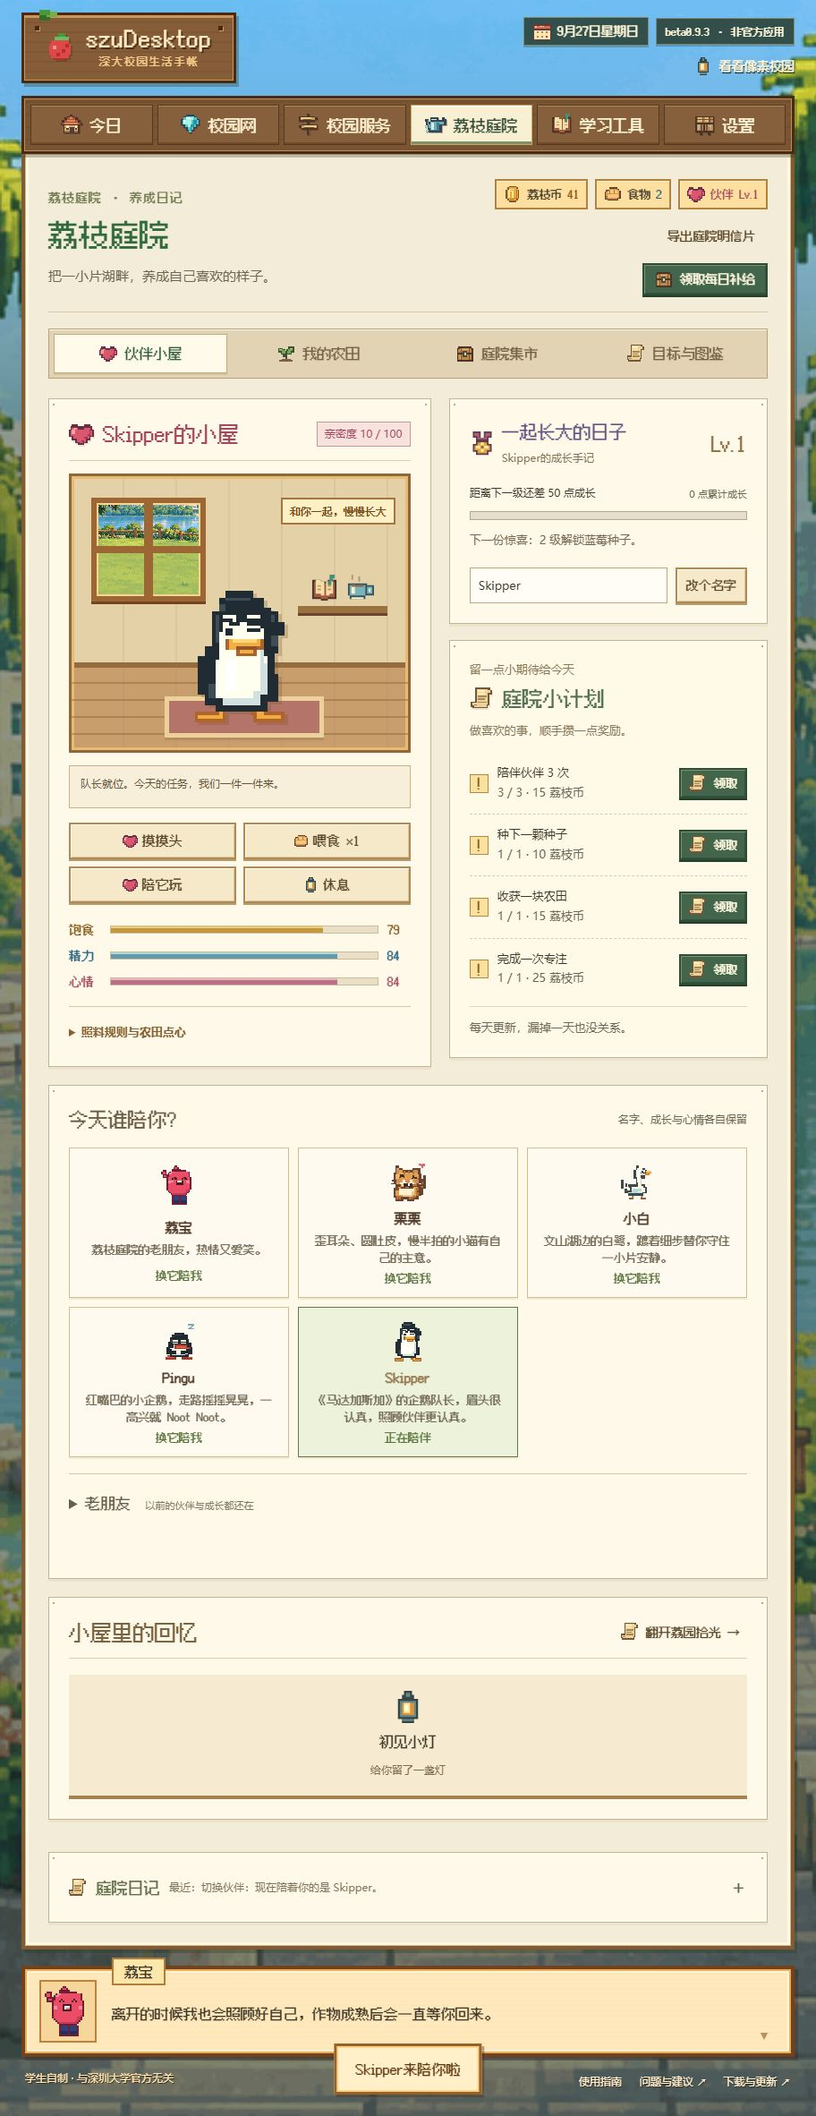
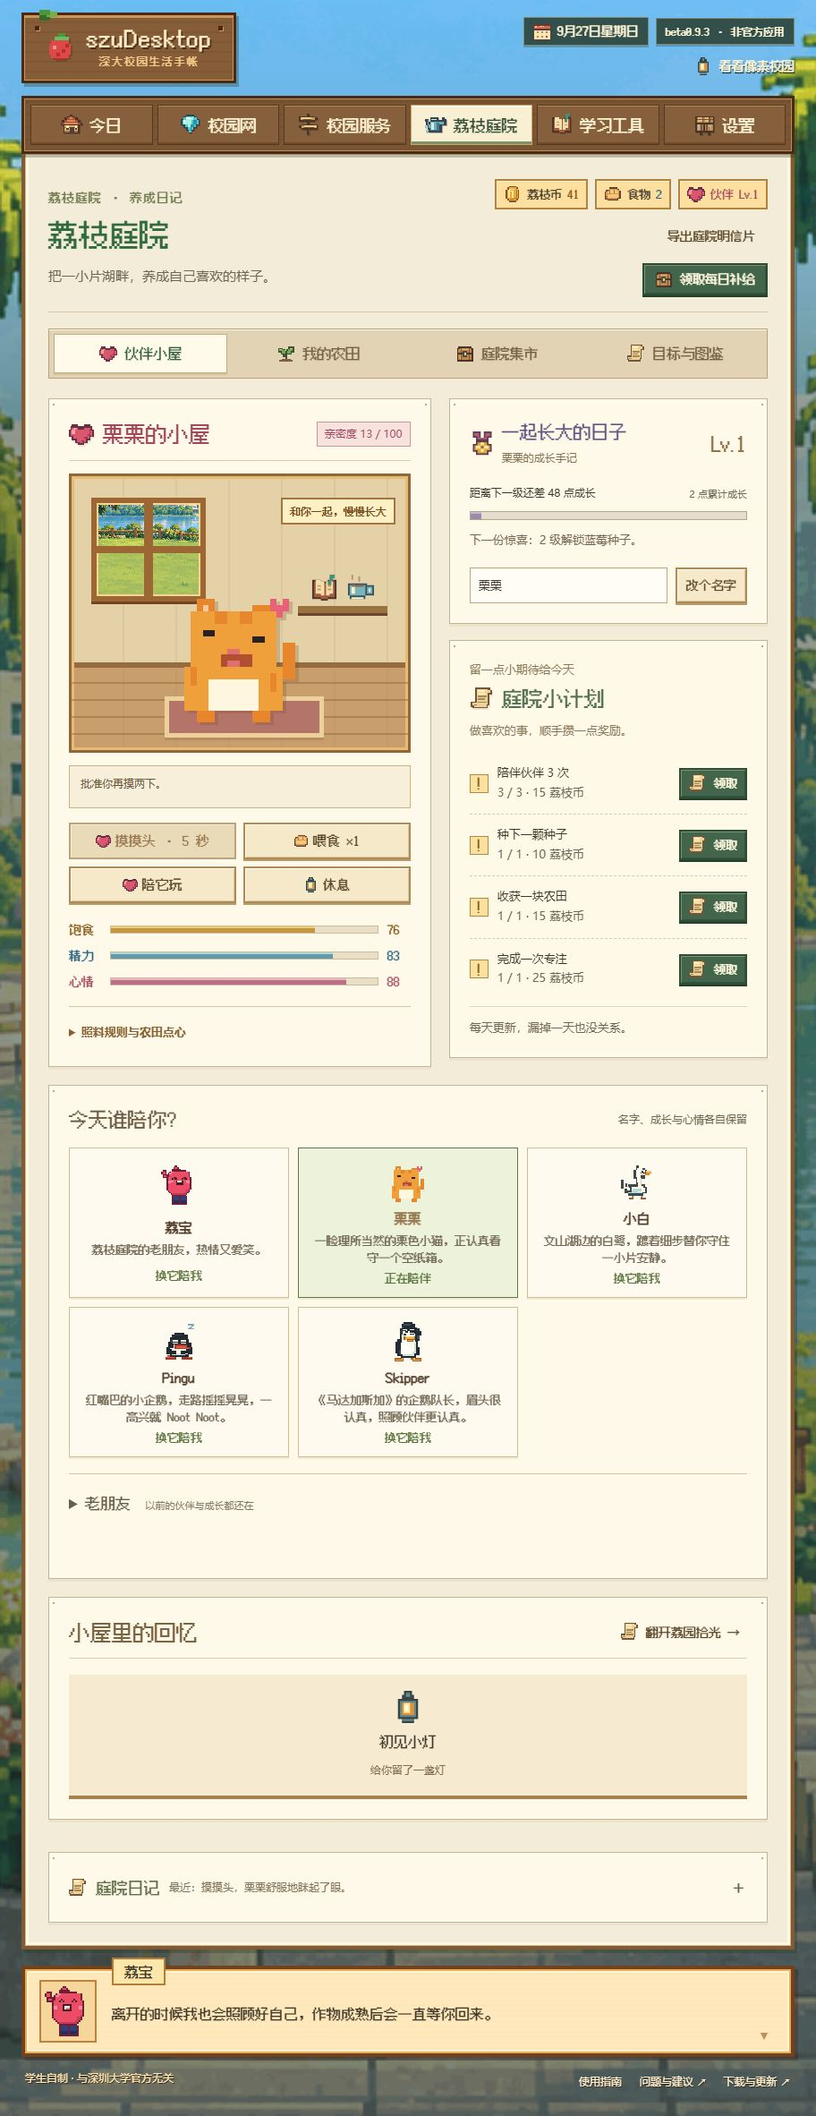
fix: restore Chestnut's rough pixel charm and matter-of-fact voice

diff --git a/desktop/make_release.py b/desktop/make_release.py
@@ -33,7 +33,8 @@ VERSION_FILE = os.path.join(ROOT, "internal", "version", "VERSION")
 README = """szuDesktop __VERSION__ · 荔枝庭院（Windows x64 便携版）
 
 1. 解压后双击 szudesktop.exe，不需要安装，使用本机 Edge / Chrome 开窗，不会弹出命令行窗口。
-2. 先选一位伙伴：荔宝、栗栗、小白（白鹭）或阿青（小龟），点击形象卡片即可切换。
+2. 先选一位伙伴：荔宝、丑萌栗栗、小白（白鹭）、Pingu 或 Skipper（企鹅队长），点击形象卡片即可切换。
+   老存档的阿青（小龟）仍可在「老朋友」里选择，原有名字和成长保留。
    新存档有 40 荔枝币、3 份点心、4 颗萝卜种子、2 颗草莓种子和一块已经种好的萝卜。
    萝卜约 1 分钟成熟，立即浇水可缩短到约 45 秒；收获 2 个萝卜和 1 成长。
 3. 在「学习工具 → 专注与小事」写一件待办，试一次 5 分钟专注；不需要学校账号。

diff --git a/docs/STATUS.md b/docs/STATUS.md
@@ -7,7 +7,7 @@
 
 ## 1. 当前状态
 
-- 2026-09-27 继续完善候选 beta0.9.3 宠物阵容：新增 Pingu 与 Skipper，保留小白，栗栗重画为歪耳、圆肚、呆脸；新档默认五位，阿青留在旧档的「老朋友」，原索引、名字与成长不变。名册与立绘已统一为共享扩展入口，规则回归通过；本轮真实界面、打包及远端 CI 证据单独记录在第 56 节，不能沿用下条 `09c2240` 的基线结论。
+- 2026-09-27 继续完善候选 beta0.9.3 宠物阵容：新增 Pingu 与 Skipper，保留小白，栗栗按反馈恢复原来的粗像素抽象比例，并以一本正经、不知道自己丑萌的猫语回应；新档默认五位，阿青留在旧档的「老朋友」，原索引、名字与成长不变。名册与立绘已统一为共享扩展入口；企鹅整合基线 `1f5a23b` 的 9 项 CI 与原生企鹅显示/切换已通过，之后的栗栗视觉和台词修订待最终核验。证据见第 56 节，不把旧包作为最终猫形象的验收。
 - 2026-09-27 产品审查后的 **beta0.9.3 本地候选版已构建，尚未公开发布**。补齐页面分区、待办编辑归档、专注记录与周回顾、跨日刷新、常驻偏好与提醒、七次回访故事、分享图、版本检查和反馈；调整成长规则，完成选田后集中操作与四伙伴四状态。关键浏览器路径、同版截图、构建一致性与许可检查已通过；[PR #19](https://github.com/SzuDesktopTeam/szudesktop/pull/19) 的 `09c2240` 已通过全部 9 项 CI 工作，包括 Windows 真实安装升级、备份恢复与桌宠交互。系统通知实际弹出、开启自启后的登录启动、学校业务和真实同学试用仍待验收。UX01–UX26 状态见第 54.9 节，证据与候选文件校验值见第 55 节。
 - 新版首页与首次使用引导已在本地源码完成，尚未发布：以文山湖场景、首页伙伴互动和 5 分钟专注组织第一印象；中英文 README 已换宣传结构和真实源码截图。具体改动与检查见第 52 节，公开安装包仍是 beta0.9.2。
 - 庭院继续打磨：新增原创湖畔农田场景，重排伙伴小屋、每日目标、纪念章与作物图鉴，奖励反馈读取实际存档变化。源码构建与本机浏览器验收完成，详情见第 53 节；尚未进入公开安装包。
@@ -2258,7 +2258,7 @@ Use case: stylized-concept. Asset type: original pixel-art background for an int
 | 伙伴 | 本轮处理 | 形象与性格 |
 |---|---|---|
 | 荔宝 `libao` | 保留默认伙伴 | 既有荔枝形象，热情、爱笑 |
-| 栗栗 `chestnut` | 丑萌重绘与台词更新 | 歪耳朵、圆肚皮、呆脸，动作与回应慢半拍；沿用存档 ID |
+| 栗栗 `chestnut` | 恢复抽象形象与台词更新 | 原来 20×22 的粗像素比例与呆脸；一本正经地占纸箱，不知道自己丑萌，不自嘲脸、耳朵或肚子；沿用存档 ID |
 | 小白 `egret` | 保留 | 文山湖白鹭，与校园场景相连，安静陪伴 |
 | Pingu `pingu` | 新增 | 红嘴巴、圆肚子、摇晃小步，Noot Noot 式回应 |
 | Skipper `skipper` | 新增 | 《马达加斯加》的企鹅队长，认真眉眼与队长式回应 |
@@ -2277,7 +2277,7 @@ Use case: stylized-concept. Asset type: original pixel-art background for an int
 1. 在 `desktop/assets/garden/pet-catalog.mjs` 的 `PETS` 中登记稳定的种类 ID。字段为 `name`、`description`、`sprite`、`viewBox`、`states`、`available`、`greeting` 与 `lines`。`lines` 含 `pat/feed/play/sleep/wake/focus/harvest`，每项两句、每句不超过 60 字。`available:true` 加入新档默认阵容并为未满额旧档补齐；停用时改为 `false`，不要删除已进入存档的定义。
 2. 在 `desktop/assets/garden/pet-art.mjs` 增加该角色完整立绘，并纳入导出的 `PET_SYMBOLS`。四态使用 `<sprite>-normal`、`<sprite>-happy`、`<sprite>-sad`、`<sprite>-sleep`，另保留代表普通状态的基础 `<sprite>`。各帧使用登记的同一 `viewBox`，包含完整图形，不依赖外部文件或嵌套 `<use>`，供庭院、桌宠与明信片共用。
 
-名册会派生 `AVAILABLE_PETS`、`PET_LIMIT`、`PET_SPRITES`；`petDefinition()`、`petViewBox()` 和 `petSprite()` 统一角色回退、视框与表情选择。`states:true` 时，睡眠优先；心情小于 35 为低落、大于 65 为开心，其余普通。`states:false` 可使用单帧基础立绘。当前栗栗视框为 `0 0 32 36`，两只企鹅均为 `0 0 32 40`。引擎继续兼容导出既有 `PETS`、`DEFAULT_PET` 与 `petSprite` 接口。
+名册会派生 `AVAILABLE_PETS`、`PET_LIMIT`、`PET_SPRITES`；`petDefinition()`、`petViewBox()` 和 `petSprite()` 统一角色回退、视框与表情选择。`states:true` 时，睡眠优先；心情小于 35 为低落、大于 65 为开心，其余普通。`states:false` 可使用单帧基础立绘。当前栗栗视框恢复为 `0 0 20 22`，两只企鹅均为 `0 0 32 40`。引擎继续兼容导出既有 `PETS`、`DEFAULT_PET` 与 `petSprite` 接口。
 
 庭院与分享图直接使用这两个来源。Electron 开发目录以同名转导模块引用它们；打包映射把实际名册与立绘放入 `app.asar` 根目录，不把指向仓库外的转导路径装进去。桌面照料使用的 `resources/garden-engine.mjs` 旁边也放同源 `pet-catalog.mjs`，保证安装后引擎相对导入可解析。桌宠通信仅接受规范非负整数索引，实际可选范围由当前存档决定，不再固定到第八只。新增角色无需再编辑庭院/桌宠两套种类表、状态视框表或 HTML 中重复的 SVG。
 
@@ -2293,12 +2293,24 @@ node desktop/electron/check-pet-view.mjs
 
 ### 56.3 本轮验证与交付证据
 
+企鹅整合基线 `1f5a23b` 已通过全部 9 项 CI。用户随后要求栗栗恢复此前粗像素、抽象的比例，并明确它不知道自己丑萌；后续视觉与台词修订已完成真实小屋与摸头台词检查、四态画稿检查、名册 8 项及桌宠命令 16 项、共享立绘检查，并重新构建两种本地候选包。下面区分原生 CI 基线与此次形象修订。
+
 | 范围 | 当前证据 | 后续记录位置 |
 |---|---|---|
 | 名册与迁移 | `check-pet-catalog.mjs` 8 项通过：默认五只、旧四只追加企鹅且保留原索引/当前伙伴/成长/摸头计数、部分档不补阿青、满额不挤旧记录、两企鹅独立成长、台词完整、庭院/桌宠状态与视框一致、切换专属问候 | 如后续改变迁移规则，在此更新对应结果 |
 | 既有规则 | `check-ui.mjs` 16 项、`check-garden-progress.mjs` 15 项通过；互动台词检查按默认名册数量遍历；`electron/check-pet-policy.mjs` 通过；桌宠菜单命令 16 项通过，包含未来索引 8/10 可通过桥接、越界不写入 | 这些是本轮源码规则检查，不是原生窗口验收 |
-| 实际页面、桌宠与明信片 | 全部 26 个 Node 检查脚本通过；真实浏览器完成 Pingu/Skipper/栗栗切换、Pingu摸头与睡眠、阿青旧伙伴展开切换、Skipper明信片预览；420px 窄窗 scrollWidth=clientWidth=405；截图见 `screenshot-pets-preview.png` | 原生安装桌宠运行与升级交由本轮 CI；浏览器不代替安装验收 |
-| 候选包一致性 | 待记录包含本轮宠物的安装包/便携包及共享模块核对 | 在此补充文件、校验值和打包验证；不得沿用第 55 节文件 |
-| 远端 CI 与发布 | 尚未记录本轮新增宠物的远端 CI 通过证据；公开版本仍为 beta0.9.2 | 在此补充实际提交、CI/PR 链接及最终发布状态 |
+| 实际页面、桌宠与明信片 | 企鹅整合基线的 26 个 Node 脚本通过；真实浏览器完成 Pingu/Skipper/栗栗切换、Pingu 摸头与睡眠、阿青旧伙伴展开切换、Skipper 明信片预览；420px 窄窗无横向溢出。基线原生安装报告 `penguins_render_and_switch=true`，默认五位与两只企鹅切换通过 | 最终栗栗在真实小屋显示粗像素形象并回应「批准你再摸两下」；`screenshot-pets-preview.png` 与 `cat-rough-preview.png` 已更新。企鹅画稿未改，最后一次猫图修订未额外重复原生安装验收 |
+| 候选包一致性 | 企鹅整合基线的安装包与便携包已构建；asar 内名册/画稿与源一致，资源引擎与名册一致且实际 import 成功，默认五只；Go sidecar 与 dist 一致；两种包许可检查通过 | 最终栗栗修订后已重建：asar 内画稿/名册与源逐字节一致，资源引擎可 import 且猫视框为 20×22，Go sidecar 与 dist 一致；最新校验值如下 |
+| 远端 CI 与发布 | 企鹅整合基线 `1f5a23b` 位于 [PR #19](https://github.com/SzuDesktopTeam/szudesktop/pull/19)；[CI 36261199079](https://github.com/SzuDesktopTeam/szudesktop/actions/runs/36261199079) 全部 9 项工作通过。原生报告确认安装、重开、beta0.9.1 升级保留数据、备份恢复、原伙伴成长保留、两只企鹅显示与切换、缩放保留、卸载通过 | 后续栗栗视觉与台词修订尚未有最终 CI 证据；PR 为草稿，公开版本仍为 beta0.9.2 |
 
 本节只完善伙伴体验与扩展结构，不改变学校业务验收结论。系统通知、自启、物理多屏、长期运行与真实同学试用仍按既有清单推进。
+
+最新本地构建文件（含两只企鹅与最终抽象栗栗；覆盖本节先前本地候选，第 55 节仅作此前基线）：
+
+| 文件 | 字节数 | SHA-256 |
+|---|---:|---|
[3 lines of base64/hex data omitted]
+
+便携包快速开始也已改为新五位伙伴，说明旧阿青入口；此处安装包只做了本地构建与内容一致性检查，不以它代替 CI 生成安装包的运行验收。

diff --git a/CHANGELOG.md b/CHANGELOG.md
@@ -25,7 +25,7 @@
 **本地候选版，尚未公开发布；当前公开下载仍为 beta0.9.2。** 本轮把像素校园、桌面伙伴、待办与专注整理成更连贯的日常体验，保留现有本机存档。
 
 - **新的首页与湖畔庭院**：首页可直接选择伙伴、写下小事、开始专注或去收获。回访时收紧欢迎展示，突出正在做的事。农田加入原创湖畔场景，点选六块真实田地后集中选择种子、种植、浇水、收获或开田；伙伴小屋重排照料、成长、每日目标、图鉴与收藏，提高部分提示字号。
-- **两只企鹅与新的栗栗**：加入 Pingu 和《马达加斯加》企鹅队长 Skipper，各有普通、开心、低落、睡眠四状态及独立互动台词。保留小白，将栗栗重画为歪耳、圆肚、呆脸的丑萌形象。新存档默认荔宝、栗栗、小白、Pingu、Skipper；阿青不再默认加入新档，旧档中的名字、成长与原索引保留，可在「老朋友」展开选择。
+- **两只企鹅与抽象栗栗**：加入 Pingu 和《马达加斯加》企鹅队长 Skipper，各有普通、开心、低落、睡眠四状态及独立互动台词。保留小白，栗栗恢复原来 20×22 的粗像素抽象比例和呆脸；它一本正经地当猫，不知道自己丑萌，台词不拿自己的长相开玩笑。新存档默认荔宝、栗栗、小白、Pingu、Skipper；阿青不再默认加入新档，旧档中的名字、成长与原索引保留，可在「老朋友」展开选择。
 - **共享伙伴扩展入口**：伙伴名册、状态选择与立绘由庭院、桌宠和分享图共用；新增伙伴登记元数据和完整状态立绘即可，不再分别维护角色名单与视框。打包映射使用相同来源。默认五位伙伴共 70 条互动台词，阿青的 14 条台词继续保留。
 - **学习和校园服务分区**：学习工具分为专注、课表、成绩；校园服务可直达空间、公告、常用入口与学院琴房，减少翻过无关表单。记住主动选择的公告来源及本科/研究生层次。未录入成绩时显示空状态，不再让 0.00 看起来像真实绩点。
 - **待办可以整理和回看**：新增编辑、计划日期、完成时间、已完成分类、归档和恢复。旧待办继续保留，没有记录过的日期不凭空补写；只想写一件小事时仍可直接添加。
@@ -41,7 +41,7 @@
 - **存档和交付细节**：新增记录兼容旧存档，保留伙伴成长、作物和已领取奖励；扩大存档容量并统一导入与保存限制。补齐安装包项目、第三方与字体许可材料，按不同登录方式说明凭据的保存位置和有效期。奖励、成长、学习记录、桌面偏好、更新与反馈检查加入发布检查清单。
 - **学校连接错误更准确**：场地读取不再把所有连接失败都解释为“需要校园网”，区分访问失败与学校实际要求。学校原页面仍用于本人登录、预约确认和结果查看，程序不代提交预约。
 
-**候选版验收边界**：以下交付证据属于新增企鹅之前的 `09c2240` 基线，不代表本轮宠物改动已通过远端 CI；本轮证据见 STATUS 第 56 节。此前本地安装包与便携包已构建，25 个相关检查脚本及 Go 测试、静态检查通过。真实浏览器完成了专注与周回顾、待办编辑归档、种植浇水收获、偏好恢复、版本查询及 PNG 预览保存；同版首页、农田、伙伴小屋与学习页截图已核对，420px 窄窗农田无横向溢出。便携 ZIP 和安装版构建目录的资源、版本与许可材料核对通过。草稿 [PR #19](https://github.com/SzuDesktopTeam/szudesktop/pull/19) 的 `09c2240` 已通过[全部 9 项 CI 工作](https://github.com/SzuDesktopTeam/szudesktop/actions/runs/36259475980)；CI 独立构建用合成数据完成 beta0.9.1 → beta0.9.3 实际安装升级、旧资源清理、存档/加密凭据/宠物配置保留、备份恢复、桌宠切换与拖动缩放、偏好写入及卸载保留数据。该 CI 安装文件与本地候选文件分别记录校验值，未混用验收证据。尚未实测系统通知弹出、开启自启后的 Windows 登录启动及长期资源占用。全套美术统一、真实同学试用、长期成长平衡、物理多显示器与完整宣传录屏仍有待办。
+**候选版验收边界**：企鹅整合基线 `1f5a23b` 已通过 [9 项 CI 工作](https://github.com/SzuDesktopTeam/szudesktop/actions/runs/36261199079)，原生安装报告确认两只企鹅显示与切换通过；之后的栗栗抽象比例与台词修订仍待最终核验，不能沿用该基线安装包作最终证据。具体记录见 STATUS 第 56 节。下面保留更早 `09c2240` 的完整体验基线：此前本地安装包与便携包已构建，25 个相关检查脚本及 Go 测试、静态检查通过。真实浏览器完成了专注与周回顾、待办编辑归档、种植浇水收获、偏好恢复、版本查询及 PNG 预览保存；同版首页、农田、伙伴小屋与学习页截图已核对，420px 窄窗农田无横向溢出。便携 ZIP 和安装版构建目录的资源、版本与许可材料核对通过。草稿 [PR #19](https://github.com/SzuDesktopTeam/szudesktop/pull/19) 的 `09c2240` 已通过[全部 9 项 CI 工作](https://github.com/SzuDesktopTeam/szudesktop/actions/runs/36259475980)；CI 独立构建用合成数据完成 beta0.9.1 → beta0.9.3 实际安装升级、旧资源清理、存档/加密凭据/宠物配置保留、备份恢复、桌宠切换与拖动缩放、偏好写入及卸载保留数据。该 CI 安装文件与本地候选文件分别记录校验值，未混用验收证据。尚未实测系统通知弹出、开启自启后的 Windows 登录启动及长期资源占用。全套美术统一、真实同学试用、长期成长平衡、物理多显示器与完整宣传录屏仍有待办。
 
 **学校业务边界**：本次网络环境已确认在校园网内，但本机部分学校查询仍访问失败；研究生官方页可达、会话过期，等待本人重新登录，暂无本科权限测试账号。真实成绩、本科课表、研究生非空排课、安装版会话接回、预约完整流程、学院琴房权限及校园认证仍有待验收范围，不因入口或错误提示修复而宣称通过。校内后端、Docker、云同步和自动安装更新继续延期；安装包仍未签名。
 

diff --git a/docs/README_en.md b/docs/README_en.md
@@ -39,9 +39,13 @@ An original pixel-art lakeside scene now surrounds six working plots. Select a p
 
 [Earlier candidate companion room](screenshot-garden-preview.png) · [Study and weekly review](screenshot-study-preview.png) · [An actual exported garden postcard](screenshot-share-preview.png). Existing local saves remain compatible, with revised progression rules. Crops do not wither, and daily goals require no streak. The original garden backdrop was generated with the built-in image tool and is bundled with the app.
 
-Meet **Pingu** and **Skipper**, the penguin captain from *Madagascar*: one waddles and says Noot Noot; the other takes your rest breaks very seriously. Xiaobai, the campus egret, stays. Chestnut has been redrawn with a crooked ear, round belly and a slightly bewildered face. New saves start with five companions. A-Qing remains under “Old friends” in existing saves, preserving names, growth and the active selection.
+Meet **Pingu** and **Skipper**, the penguin captain from *Madagascar*: one waddles and says Noot Noot; the other takes your rest breaks very seriously. Both penguins have normal, happy, low-mood and sleeping states. Xiaobai, the campus egret, stays. Chestnut returns to its original chunky, abstract pixel proportions: utterly serious about occupying a cardboard box, and unaware of its own odd charm. New saves start with five companions. A-Qing remains under “Old friends” in existing saves, preserving names, growth and the active selection.
 
-![Unreleased penguin companions and the redrawn Chestnut](screenshot-pets-preview.png)
+![Unreleased penguin companions and the abstract Chestnut](screenshot-pets-preview.png)
+
+[Chestnut’s four expressions](cat-rough-preview.png): it takes being a cat seriously and never jokes about its own looks.
+
+Penguin integration baseline `1f5a23b` passed [all 9 CI jobs](https://github.com/SzuDesktopTeam/szudesktop/actions/runs/36261199079), including installation upgrades and native rendering and switching for both penguins. Chestnut’s subsequent return to abstract proportions and matter-of-fact dialogue has passed real-room, interaction-line and four-state artwork checks, and the local candidate packages have been rebuilt; the earlier CI remains the penguin integration baseline. Progress and artifact records are in [STATUS section 56](STATUS.md#56-宠物阵容与扩展接口2026-09-27源码未发布).
 
 Implemented in the current source:
 

diff --git a/README.md b/README.md
@@ -39,9 +39,13 @@
 
 [此前候选的伙伴小屋](docs/screenshot-garden-preview.png) · [学习与周回顾](docs/screenshot-study-preview.png) · [实际导出的庭院明信片](docs/screenshot-share-preview.png)。新版兼容现有本机存档，并调整了成长规则；作物不会枯萎，每日目标没有连续签到要求。庭院背景由内置图片工具原创生成，随程序打包。
 
-新增 **Pingu** 和《马达加斯加》的企鹅队长 **Skipper**：一位摇摇晃晃地 Noot Noot，一位认真执行“陪你休息”的任务。保留文山湖白鹭小白；栗栗重画成歪耳朵、圆肚皮、慢半拍的丑萌小猫。新存档默认五位伙伴，旧存档里的阿青仍在「老朋友」中，名字、成长和当前选择都保留。
+新增 **Pingu** 和《马达加斯加》的企鹅队长 **Skipper**：一位摇摇晃晃地 Noot Noot，一位认真执行“陪你休息”的任务。两只企鹅都有普通、开心、低落和睡眠四态。保留文山湖白鹭小白；栗栗恢复原来粗像素、很抽象的样子，一本正经地占着纸箱，并不知道自己丑萌。新存档默认五位伙伴，旧存档里的阿青仍在「老朋友」中，名字、成长和当前选择都保留。
 
-![新增企鹅与丑萌栗栗的源码预览，尚未公开发布](docs/screenshot-pets-preview.png)
+![新增企鹅与抽象栗栗的源码预览，尚未公开发布](docs/screenshot-pets-preview.png)
+
+[栗栗的四种表情](docs/cat-rough-preview.png)：它只是认真当猫，不拿自己的长相开玩笑。
+
+企鹅整合基线 `1f5a23b` 已通过[全部 9 项 CI 工作](https://github.com/SzuDesktopTeam/szudesktop/actions/runs/36261199079)，包括安装升级和两只企鹅的原生桌宠显示、切换。栗栗随后按反馈恢复抽象比例并调整为毫不自知的猫语，这次修订已检查实际小屋、互动台词与四态画稿，并重新构建本地候选包；此前 CI 对应的是企鹅整合基线。进度与文件记录在 [STATUS 第 56 节](docs/STATUS.md#56-宠物阵容与扩展接口2026-09-27源码未发布)。
 
 这一轮已经写入源码的内容：
 
